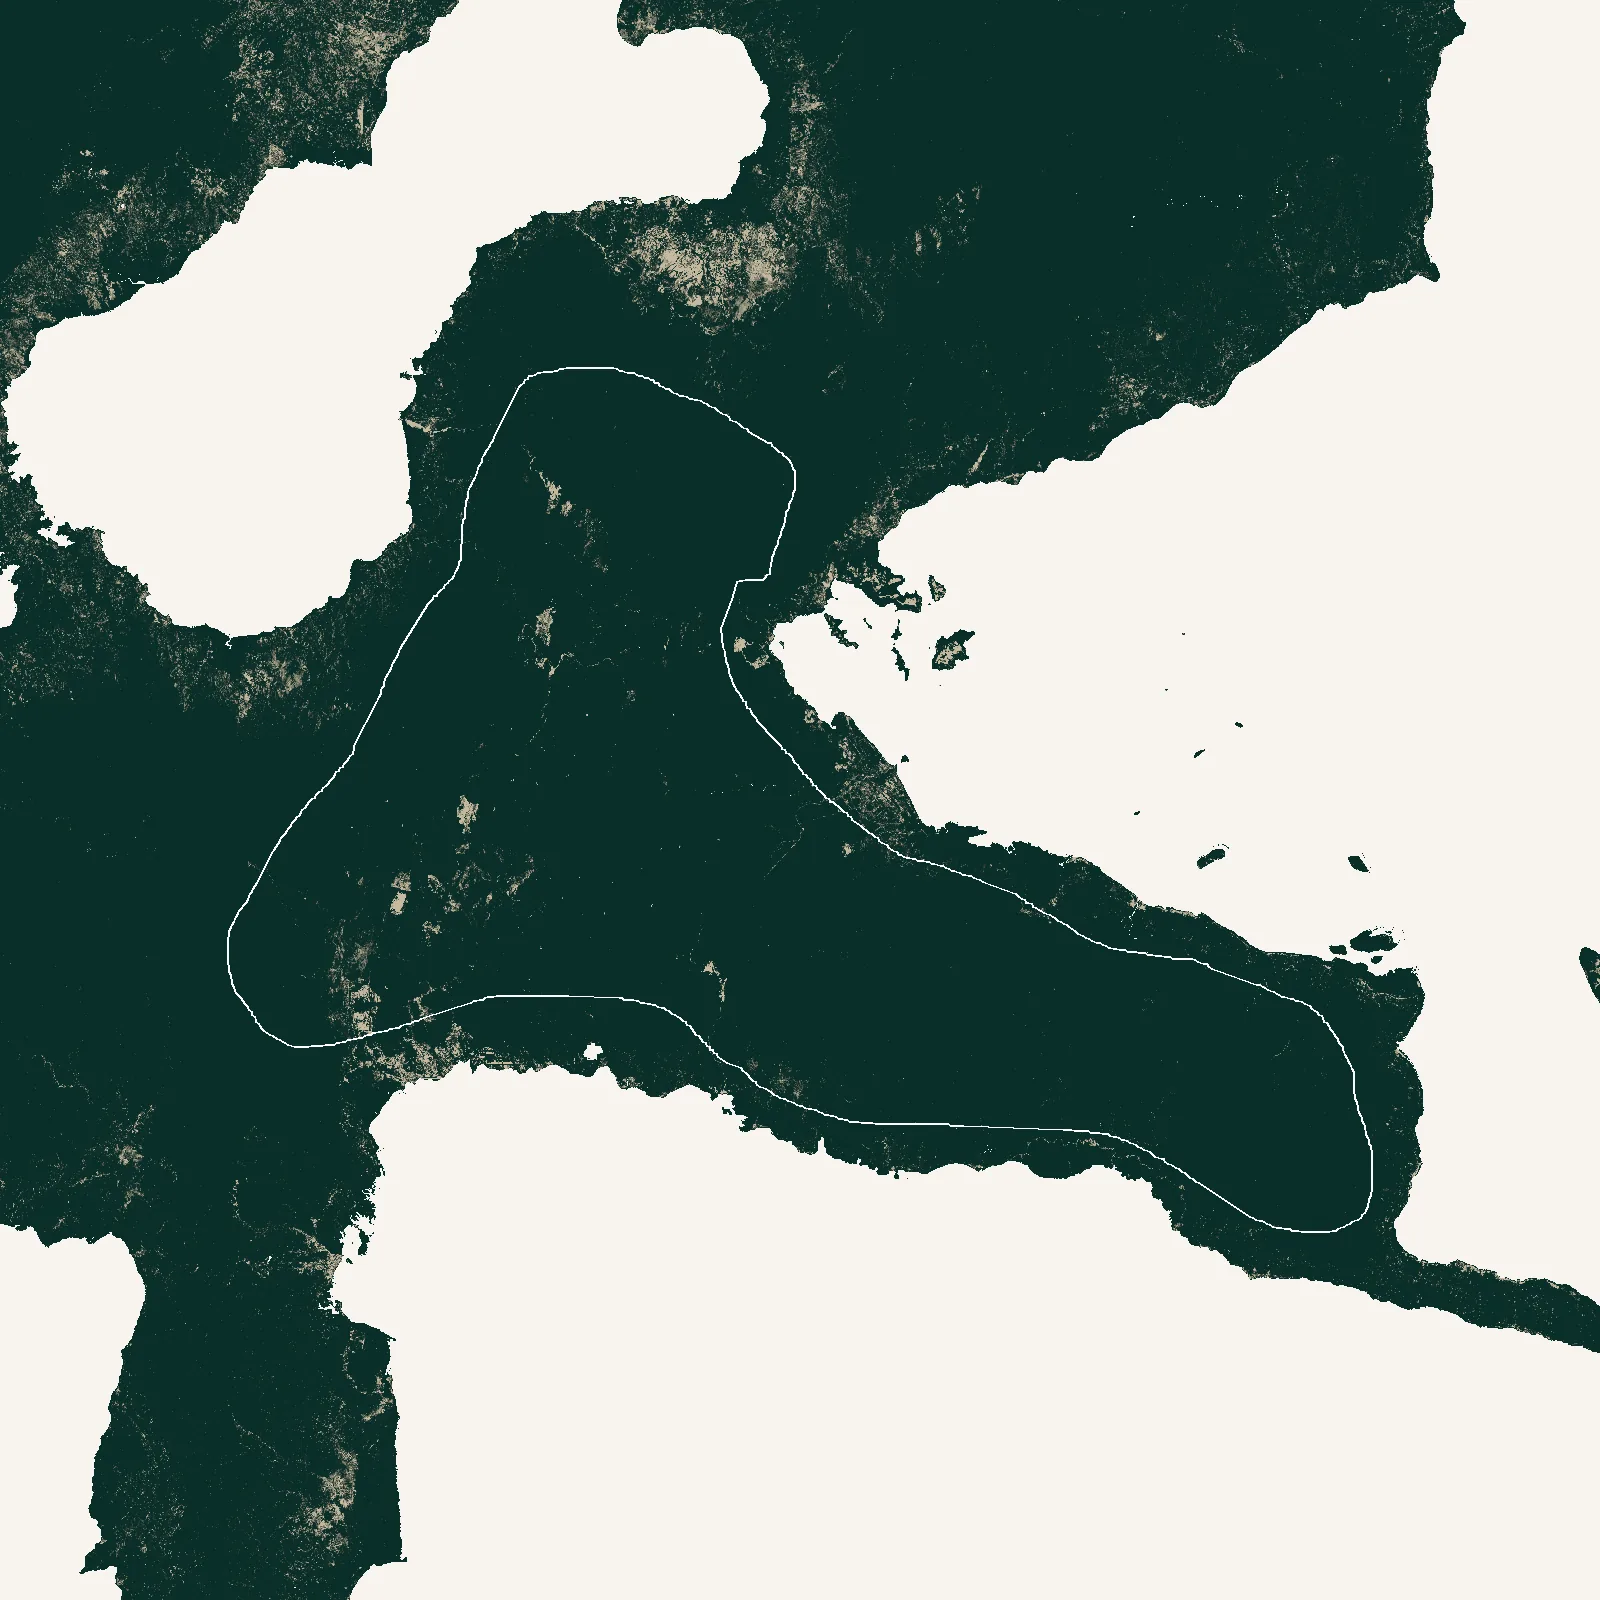
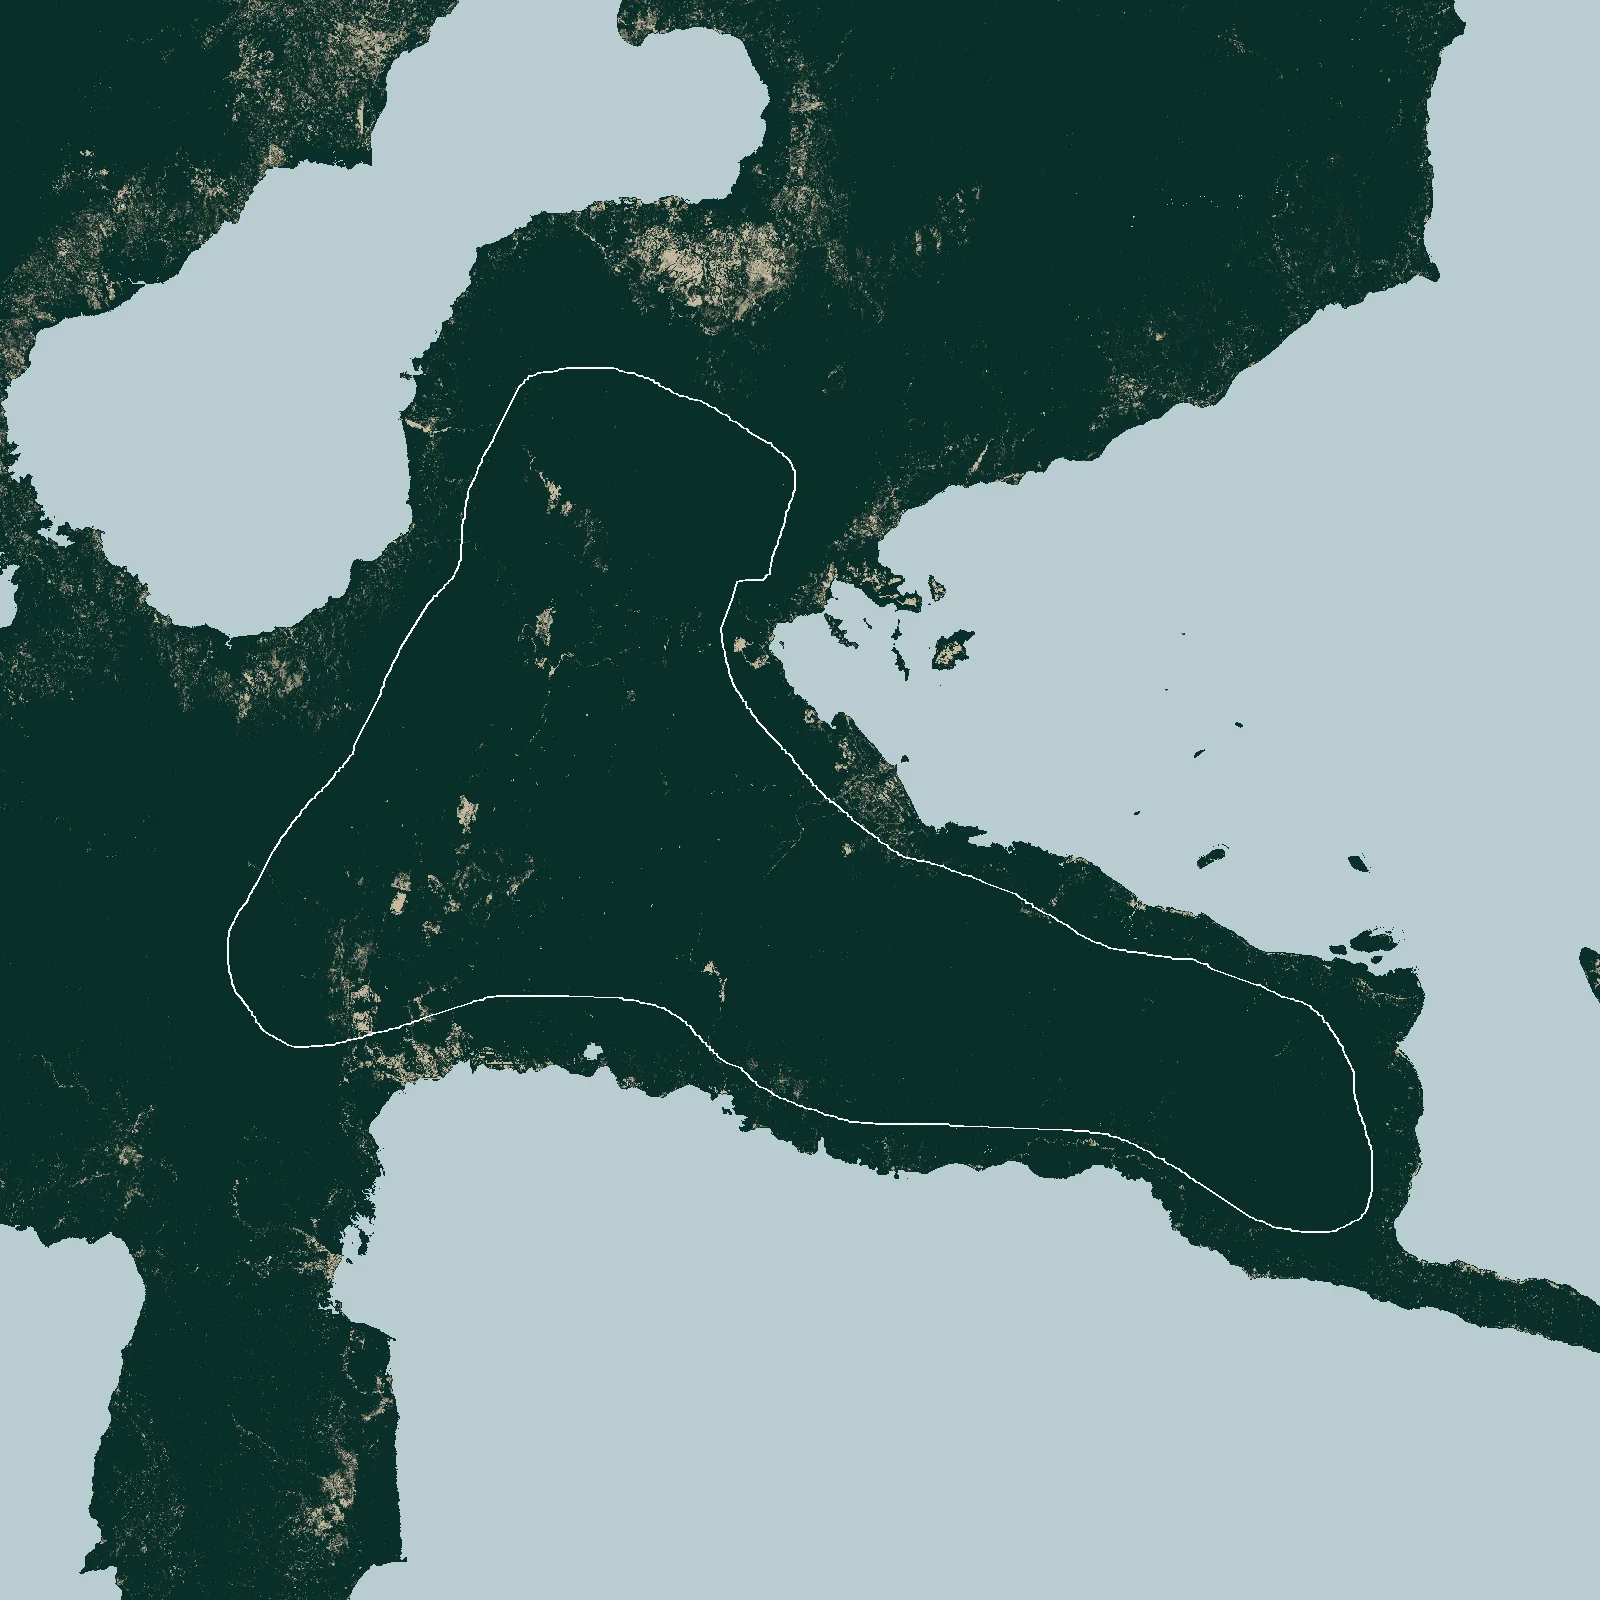
Give the two closing maps a sea, and shorten the Halmahera heading
The sea was the page's own paper, which was the quickest way to stop the
duotone reading open water as dense canopy. On two island maps that left
the ocean indistinguishable from the margin. It is now a greyed blue,
light enough that the forest stays the darkest thing in the frame.

That cost the scale bar its contrast: it is drawn white, which is safe on
the ranked panels because those boxes are inland and dark all over, but
the bottom-left corner of both of these is water. It now carries a halo,
which holds it on the sea without hardening it on the forest.

The heading repeated the first sentence almost word for word. It names
the people and the island instead, which is also how the New Guinea
chapter beside it is headed.

diff --git a/src/config.js b/src/config.js
@@ -612,7 +612,7 @@ export default {
       scale: { n: 20, kmFrac: 0.1504, miFrac: 0.242 },
       locator: [128.17051, 0.63895],
       caption: 'Forest remaining in 2025, with the approximate extent of lands used by O\u2019 Hongana Manyawa people outlined.',
-      title: 'Lands used by uncontacted O\u2019 Hongana Manyawa people in Indonesia',
+      title: 'The O\u2019 Hongana Manyawa in Halmahera',
       description: "<p>Lands used by uncontacted O\u2019 Hongana Manyawa people in Indonesia\u2019s Halmahera Island overlap with the Aketajawe-Lolobata National Park. However, voluntarily isolated members of the tribe use much more land, and mapping efforts by various groups of their territory are underway.</p><p>According to an approximate map by human rights organization Survival International, a wave of mining concessions, many for nickel, impact forests uncontacted O\u2019 Hongana Manyawa people depend on for food and survival.</p><p>The Jakarta declaration, which calls on governments to protect the lands and rights of uncontacted peoples worldwide, was drafted in Indonesia in a bid to strengthen the global alliance for the protection of uncontacted peoples and the inclusion of tribes in Indonesia.</p><p>For the safety of the isolated members of the group, Mongabay will not publish the most up-to-date map of lands the O\u2019 Hongana Manyawa people use.</p><p>\u201CThis map is very helpful in showing the existence of the O\u2019 Hongana Manyawa Indigenous Community \u2026 but does not yet cover the entire O\u2019 Hongana Manyawa Indigenous territory. The work to document the existence of O\u2019 Hongana Manyawa and its Indigenous territory is not yet complete, and it will continue,\u201D said Yoga Kipli, directorate of community support and former head of participatory mapping for the Indigenous Peoples\u2019 Alliance of the Archipelago (AMAN).</p>",
     },
 

diff --git a/src/components/stages/WatchArea.css b/src/components/stages/WatchArea.css
@@ -89,6 +89,23 @@
   height: auto;
 }
 
+/* The scale bar is drawn white, which is safe on the ranked panels because
+   those boxes are inland and dark all over. These two are islands: the bar's
+   corner can fall on the sea, which is now a light tone. A soft shadow keeps
+   it readable on both without giving it a plate to sit on. */
+.watch-section .scalebar__label {
+  /* Two shadows: a tight halo that holds the letterforms against the pale sea,
+     and a softer drop under them. One alone is either too hard on the dark
+     forest or too weak on the water. */
+  text-shadow: 0 0 2px rgba(24, 24, 24, 0.8),
+               0 1px 3px rgba(24, 24, 24, 0.55);   /* adjust furniture shadow */
+}
+
+.watch-section .scalebar__line {
+  box-shadow: 0 0 2px rgba(24, 24, 24, 0.8),
+              0 1px 3px rgba(24, 24, 24, 0.55);
+}
+
 .watch-section__caption {
   max-width: 620px;
   font-size: var(--fs-caption);
